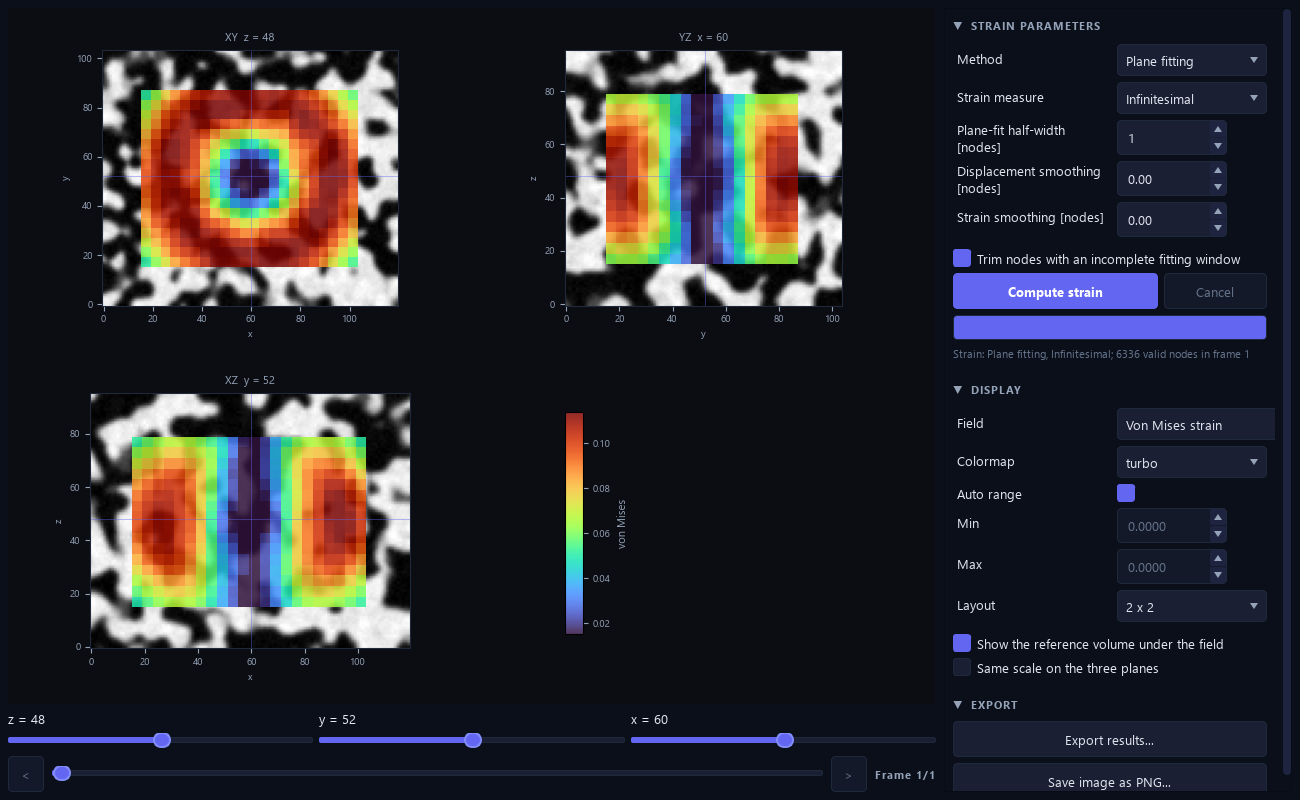
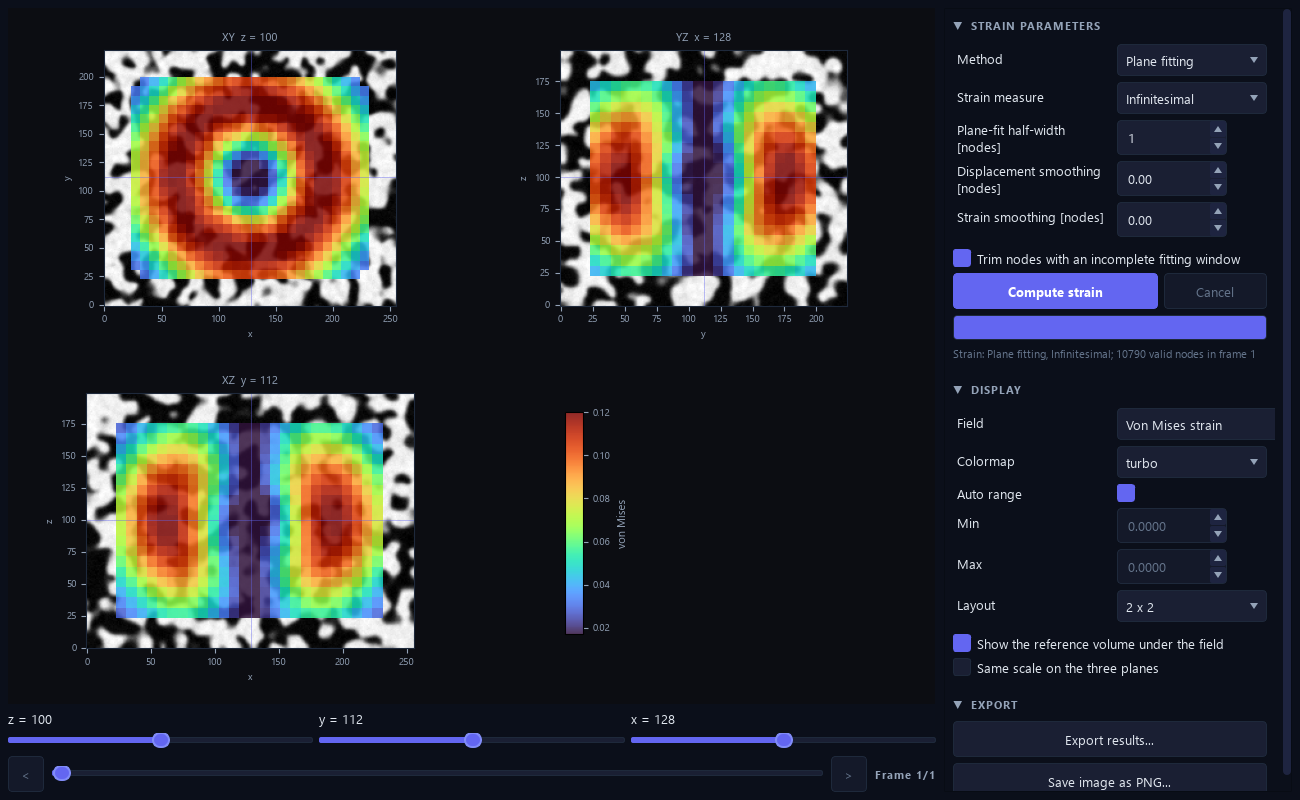
feat: larger branding demo (200 x 224 x 256 foam, subset 24, step 8)
The synthetic demo behind the banner, screenshots and gif is now a 200 x 224 x 256 open-cell foam with a wider vortex (radius 45), solved with subset 24 and step 8 (14 112 nodes, 11 s on the RTX 5090, median error 0.03 voxel). The README caption states the data and the settings.

diff --git a/scripts/make_branding.py b/scripts/make_branding.py
@@ -140,28 +140,28 @@ def make_icon() -> Path:
 
 
 # --------------------------------------------------------------------------- synthetic result
-DEMO_SHAPE = (96, 104, 120)  # (nz, ny, nx)
-DEMO_PARAMS = dict(winsize=16, winstepsize=4, search_radius=6, admm_max_iter=3, verbose=False)
+DEMO_SHAPE = (200, 224, 256)  # (nz, ny, nx)
+DEMO_PARAMS = dict(winsize=24, winstepsize=8, search_radius=10, admm_max_iter=3, verbose=False)
 DEMO_ARROWS = dict(stride=2, scale=2.0)  # arrow subsampling and length for the 3-D looks
 DEMO_WARP_SCALE = 6.0  # exaggeration of the deformed lattice in the gif finale
 LATTICE_RATE = (2, 2, 2)  # every second node in the banner lattice panel
-DEMO_MARGIN = (6, 8, 8)  # voxels left outside the region of interest on each side (z, y, x)
+DEMO_MARGIN = (12, 16, 16)  # voxels outside the region of interest per side (z, y, x)
 
 
-def foam_volume(shape=DEMO_SHAPE, seed=7, strut_sigma=2.6, fill=0.55) -> np.ndarray:
+def foam_volume(shape=DEMO_SHAPE, seed=7, strut_sigma=4.0, fill=0.55) -> np.ndarray:
     """A micro-CT-like open-cell foam: thresholded Gaussian random field with textured struts."""
     rng = np.random.default_rng(seed)
     field = gaussian_filter(rng.standard_normal(shape), sigma=strut_sigma, mode="nearest")
     struts = (field > np.quantile(field, 1 - fill)).astype(np.float32)
-    struts = gaussian_filter(struts, sigma=0.9, mode="nearest")
-    texture = gaussian_filter(rng.standard_normal(shape), sigma=1.2, mode="nearest")
+    struts = gaussian_filter(struts, sigma=1.2, mode="nearest")
+    texture = gaussian_filter(rng.standard_normal(shape), sigma=1.6, mode="nearest")
     texture = (texture - texture.min()) / (texture.max() - texture.min())
     vol = 0.15 + 0.85 * struts * (0.7 + 0.3 * texture) + 0.08 * texture * (1 - struts)
     vol += 0.01 * rng.standard_normal(shape)
     return np.ascontiguousarray(np.clip(vol, 0, 1), dtype=np.float32)
 
 
-def vortex_displacement(shape=DEMO_SHAPE, angle_deg=18.0, radius=22.0, height=22.0, compress=0.012, poisson=0.35):
+def vortex_displacement(shape=DEMO_SHAPE, angle_deg=18.0, radius=45.0, height=45.0, compress=0.012, poisson=0.35):
     """A localised twist about the z axis that fades away from the centre, on top of uniaxial compression.
 
     The displacement magnitude is a torus around the centre: rings on the xy planes, two lobes on

diff --git a/README.md b/README.md
@@ -60,8 +60,9 @@ region of interest, set parameters, run, inspect, export: no code needed.
   <img src="assets/pyALDVC_demo.gif" alt="pyALDVC workflow: load volumes, draw a region of interest, run, strain post-processing, 3-D slices with arrows, deformed lattice" width="90%"/>
 </p>
 
-<p align="center"><sub>Synthetic open-cell foam under compression with a localised vortex; the displacement
-magnitude forms a torus. Regenerate every asset with <code>python scripts/make_branding.py</code>.</sub></p>
+<p align="center"><sub>Synthetic open-cell foam (200 x 224 x 256 voxels) under compression with a localised vortex;
+the displacement magnitude forms a torus. Subset 24, step 8, 14 112 nodes, 11 s on an RTX 5090.
+Regenerate every asset with <code>python scripts/make_branding.py</code>.</sub></p>
 
 <p align="center">
   <img src="assets/screenshot_main.png" alt="Main window with a displacement field on the three slices" width="90%"/>
